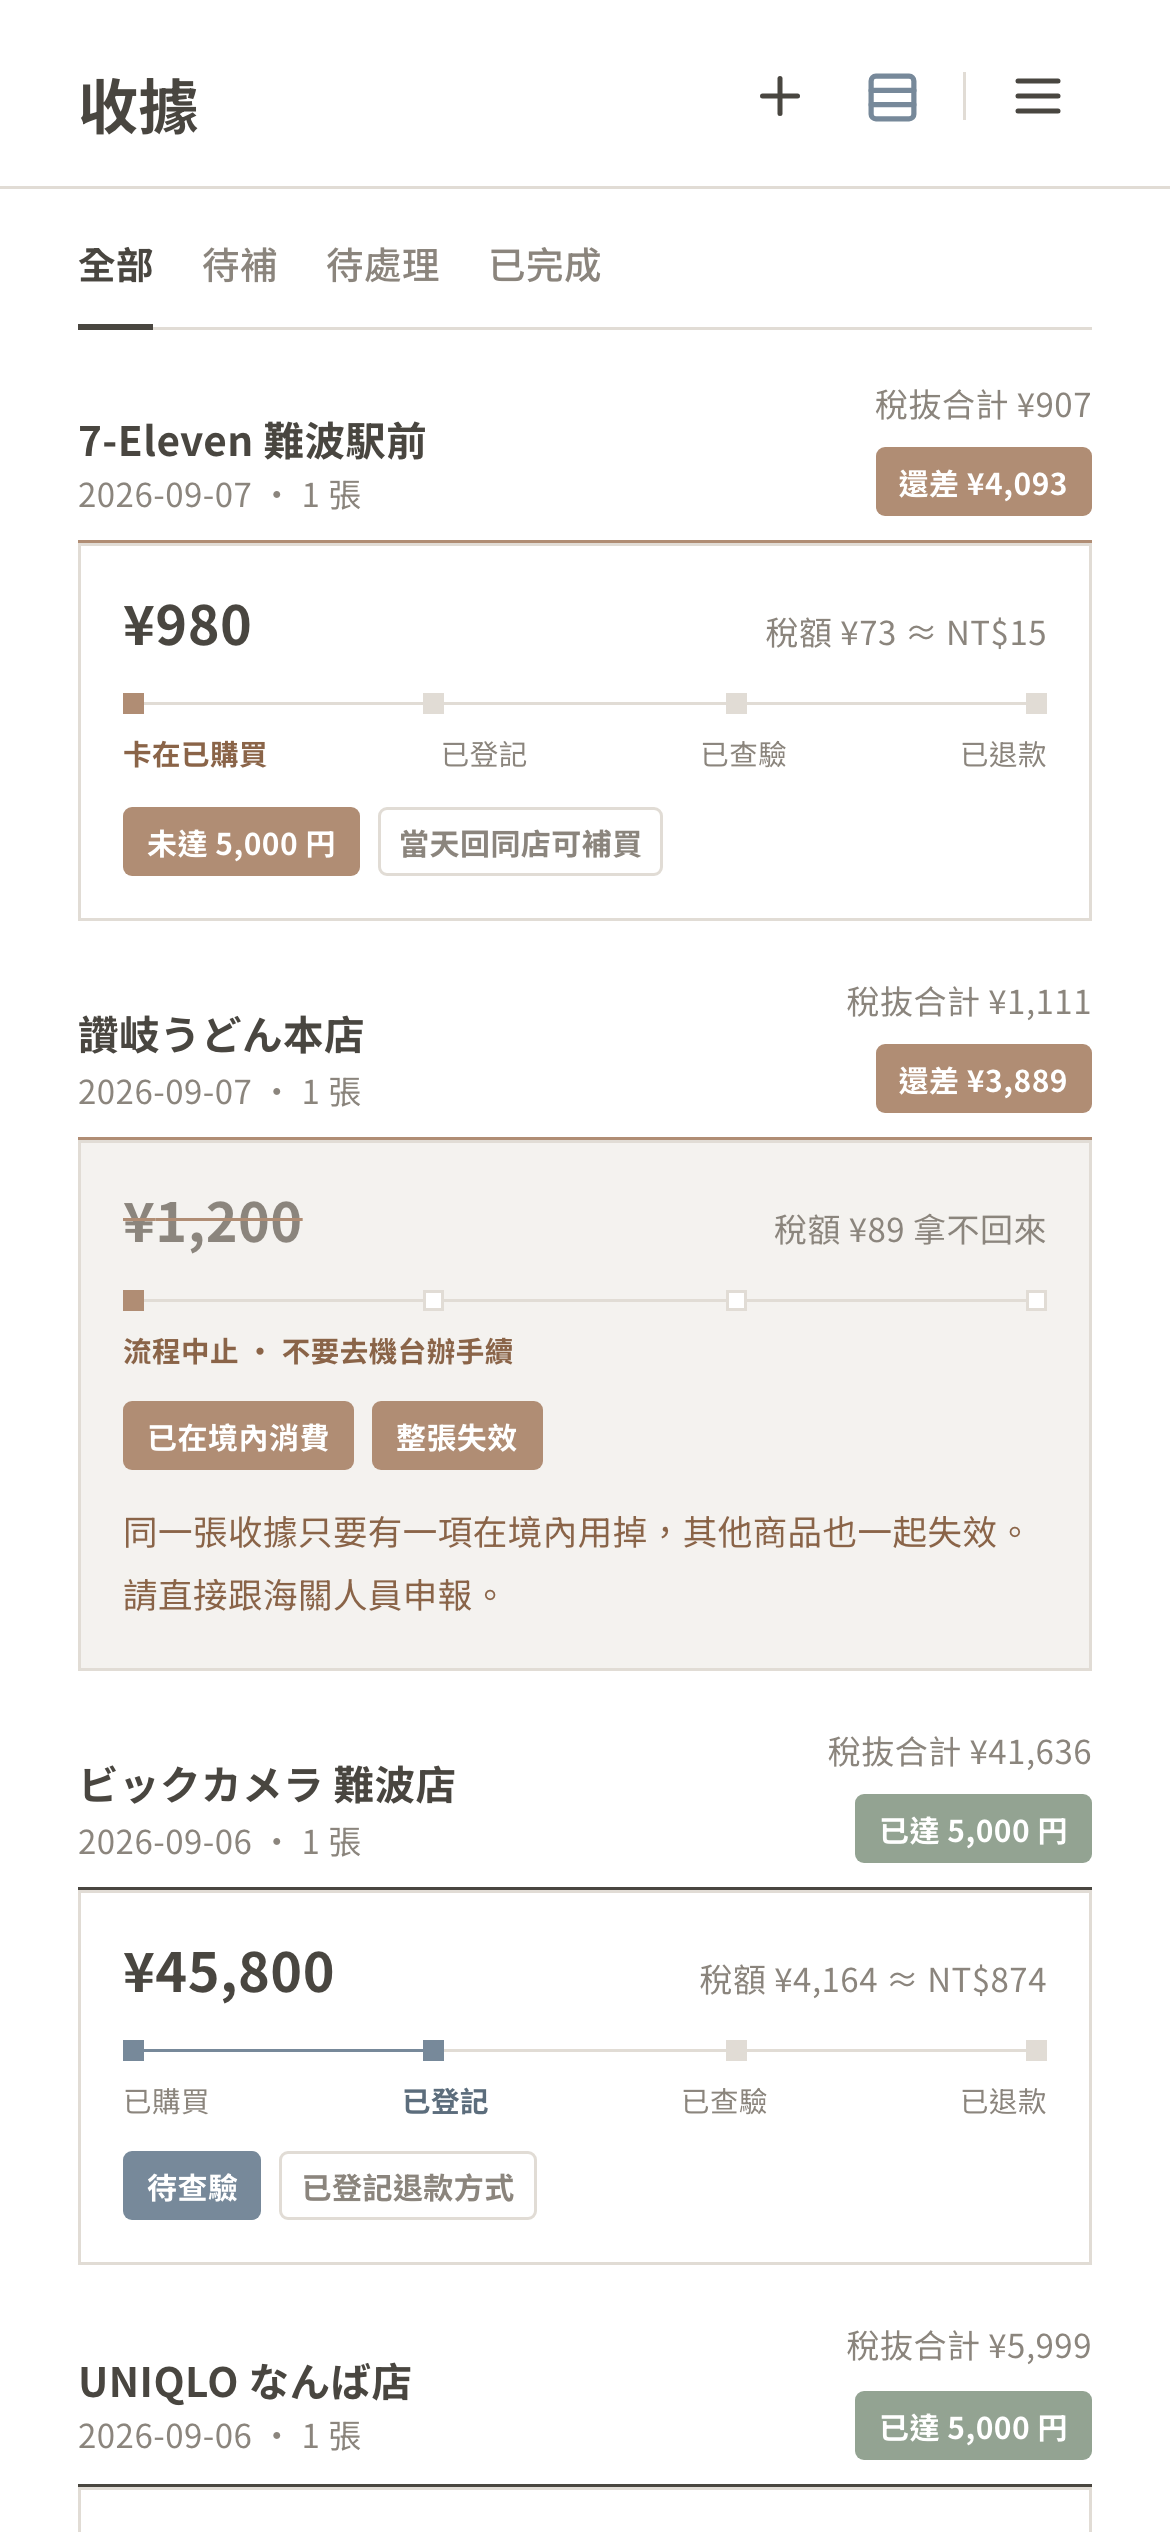
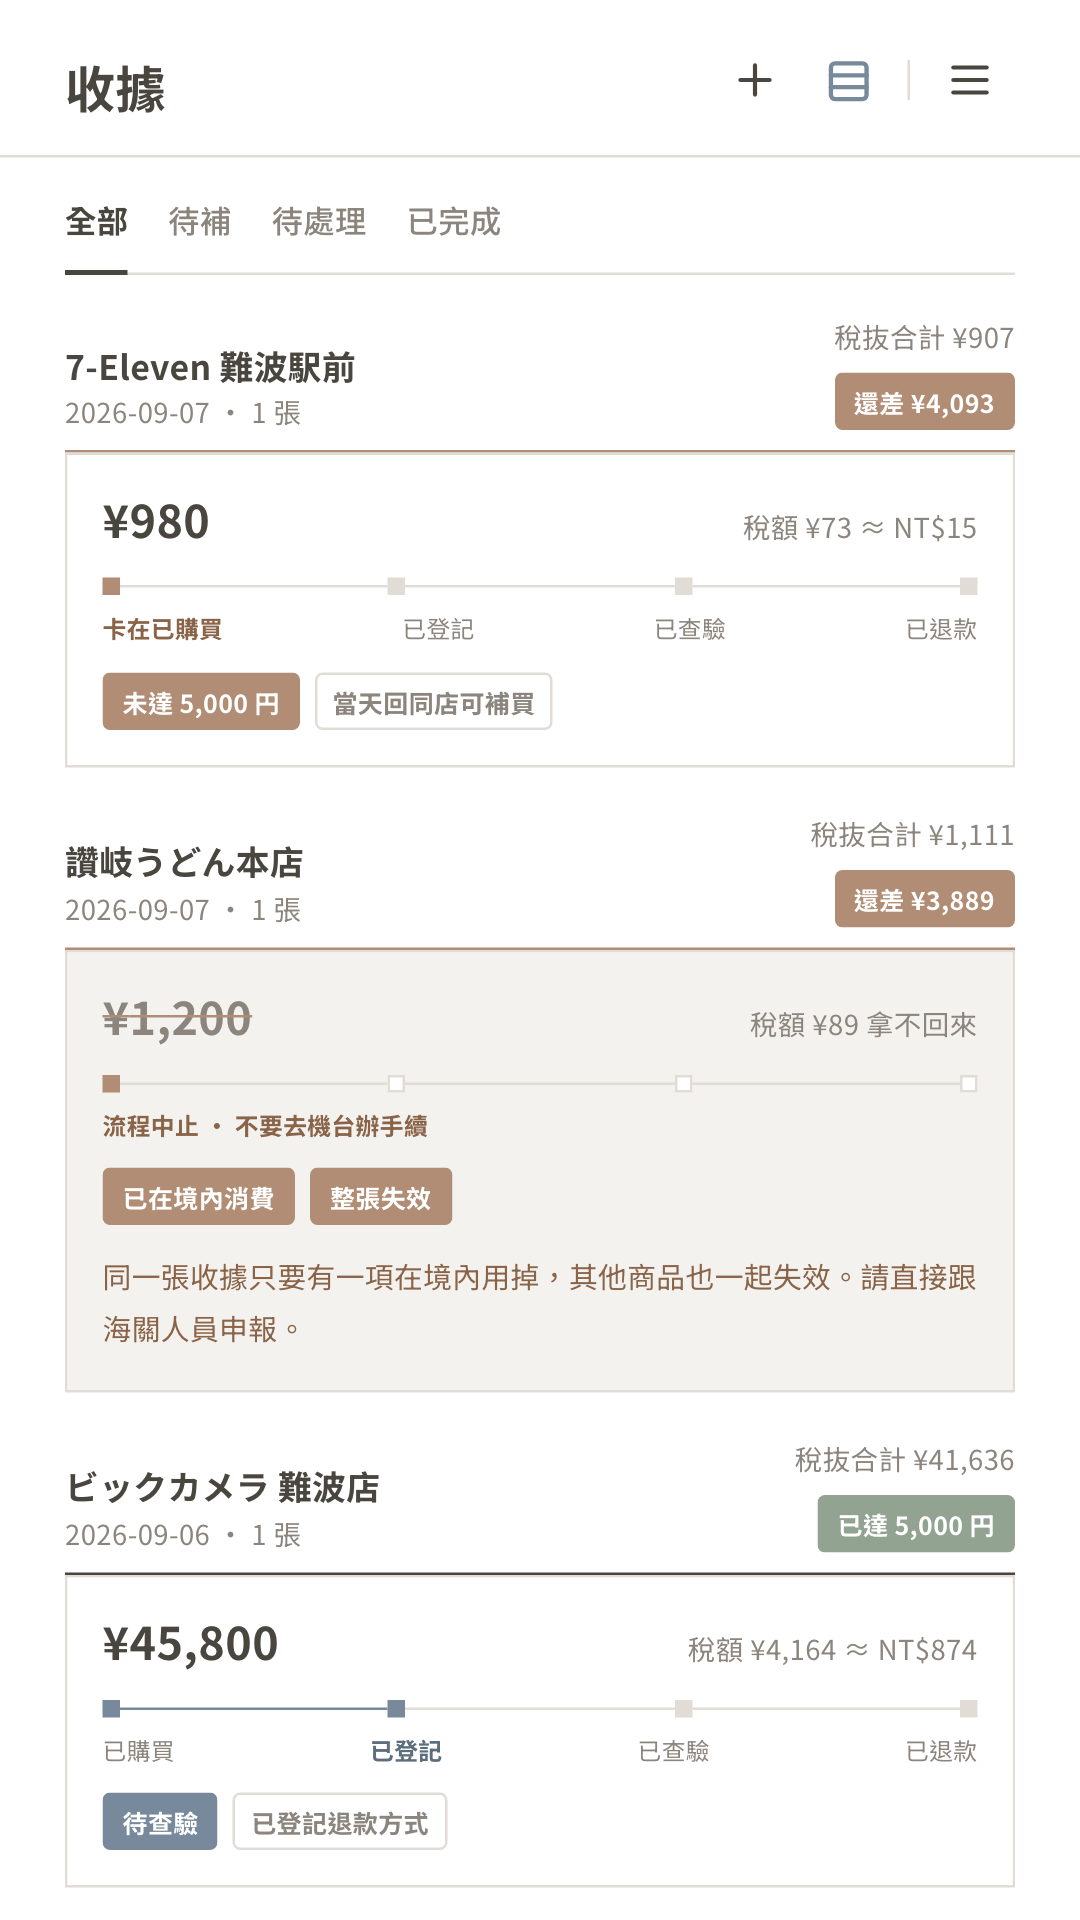
上架素材補齊：App 圖示、主題圖片，截圖改成正確的 9:16 比例
- assets/play-store-graphics/：512×512 App 圖示、1024×500 主題圖片，
  用 App 自己的 FrogMark logo 跟色票做，Playwright 開無頭瀏覽器對著
  SVG/HTML 截圖產生，沒有另外裝圖片工具
- assets/play-store-screenshots/：原本 1170×2532（配合 App 390×844 的
  設計比例）不符合 Play Console「顯示比例須為 16:9 或 9:16」的規定，
  改成 432×768 CSS viewport + 2.5 倍縮放，輸出剛好 1080×1920，精準
  9:16，同時滿足「至少一邊 ≥1080px」的宣傳資格門檻

diff --git a/e2e/generate-store-screenshots.spec.js b/e2e/generate-store-screenshots.spec.js
@@ -2,9 +2,12 @@ import { test } from '@playwright/test';
 import { seedTrip, TINY_PNG } from './helpers.js';
 import fs from 'node:fs';
 
-// 一次性產生 Google Play 上架用的正式尺寸截圖（1080×2400，20:9，符合
-// Play Console 手機截圖規格：長邊 320–3840px、長寬比在 16:9～9:16 之間）。
-// 用 360×800 的 CSS viewport + deviceScaleFactor 3 算出來的實際像素。
+// 一次性產生 Google Play 上架用的正式尺寸截圖（1080×1920，9:16）。
+// Play Console 手機截圖規格寫得很明確：顯示比例「必須」是 16:9 或 9:16
+// （不是隨便一個接近的比例都收），且至少一邊 ≥1080px 才符合宣傳資格。
+// 用 432×768 的 CSS viewport（432 還在這個 App 支援的 320–480 寬度內，
+// 不會像更窄的寬度那樣把數字擠到超出螢幕）+ deviceScaleFactor 2.5，算出
+// 來剛好是 1080×1920，比例精準等於 9:16。
 const OUT_DIR = 'assets/play-store-screenshots';
 fs.mkdirSync(OUT_DIR, { recursive: true });
 
@@ -75,7 +78,7 @@ const photos = Object.fromEntries(
 // 視窗、e2e 全部測試都跑這個尺寸）——用它，不是隨便挑一個手機寬度，
 // 避免踩到「螢幕比預期窄，數字被切掉」這種在真正窄螢幕手機上才會
 // 出現的排版問題。deviceScaleFactor 3 放大到 1170×2532 輸出。
-test.use({ viewport: { width: 390, height: 844 }, deviceScaleFactor: 3 });
+test.use({ viewport: { width: 432, height: 768 }, deviceScaleFactor: 2.5 });
 
 test('產生 Play Store 上架截圖', async ({ page }) => {
   await seedTrip(page, { trips: [trip], activeId: 't1', items, photos });
